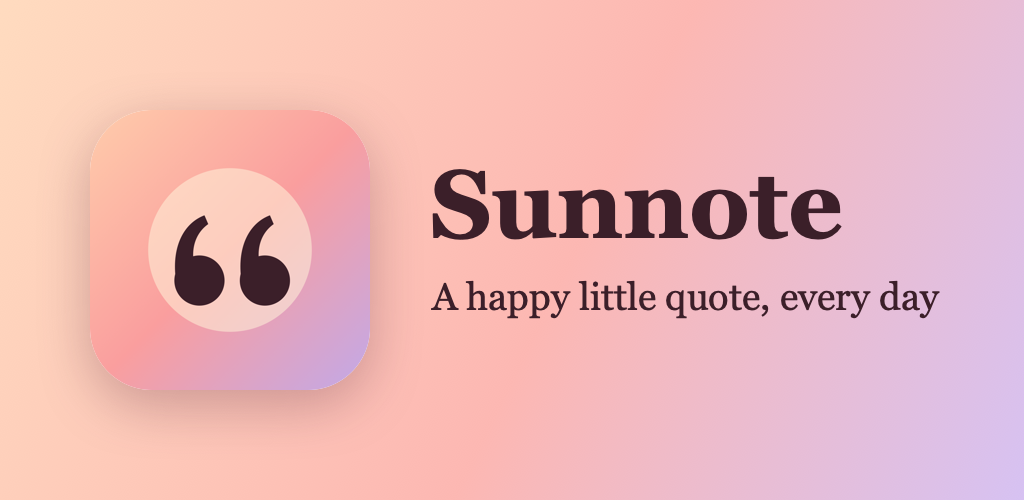
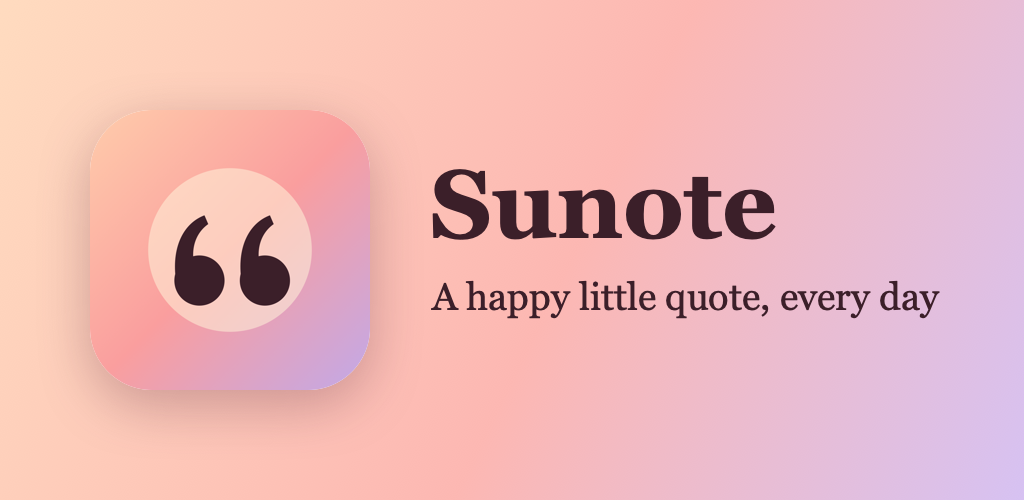
Rename the app from Sunnote to Sunote
Display names on both platforms, in-app text, README, tools and store images.
Bundle and application IDs are unchanged.

Changed region(s): [[0.5938, 0.36, 0.8438, 0.48]]

diff --git a/tools/make_store_images.swift b/tools/make_store_images.swift
@@ -1,4 +1,4 @@
-// Builds Sunnote's store images from raw simulator/emulator screenshots.
+// Builds Sunote's store images from raw simulator/emulator screenshots.
 // Usage: swift tools/make_store_images.swift <raw-screenshots-dir> <output-dir>
 // Expects in the raw dir: ios-{home,checkin,today,settings,myquotes,favourites}.png,
 // and-{home,checkin,today,settings,myquotes,favourites}.png, and the icon at
@@ -106,7 +106,7 @@ let icon = CGImageSourceCreateImageAtIndex(iconSrc, 0, nil)!
 do {
     let ctx = canvas(1024, 500)
     place(ctx, icon, in: CGRect(x: 90, y: 110, width: 280, height: 280), radius: 62)
-    let title = CTLineCreateWithAttributedString(NSAttributedString(string: "Sunnote", attributes: [
+    let title = CTLineCreateWithAttributedString(NSAttributedString(string: "Sunote", attributes: [
         .font: CTFontCreateWithName("Georgia-Bold" as CFString, 96, nil), .foregroundColor: NSColor(cgColor: ink)!]))
     ctx.textPosition = CGPoint(x: 430, y: 262); CTLineDraw(title, ctx)
     let tag = CTLineCreateWithAttributedString(NSAttributedString(string: "A happy little quote, every day", attributes: [

diff --git a/ios/QuoteApp/RootView.swift b/ios/QuoteApp/RootView.swift
@@ -151,7 +151,7 @@ struct SettingsView: View {
                 } header: {
                     Text("Widget style")
                 } footer: {
-                    Text("Pick the one that suits your wallpaper. On iOS 18 tinted or clear home screens, Sunnote follows your home screen's look automatically.")
+                    Text("Pick the one that suits your wallpaper. On iOS 18 tinted or clear home screens, Sunote follows your home screen's look automatically.")
                 }
                 Section {
                     Text("A new quote appears every day at midnight. Add the widget from your Home Screen: touch and hold, tap Edit, then Add Widget.")

diff --git a/android/app/src/main/java/io/github/nikhila612/quotewidget/ui/MainActivity.kt b/android/app/src/main/java/io/github/nikhila612/quotewidget/ui/MainActivity.kt
@@ -351,7 +351,7 @@ private fun SettingsScreen(theme: WidgetTheme, onThemeChange: (WidgetTheme) -> U
                 color = MaterialTheme.colorScheme.onSurfaceVariant,
             )
             Text(
-                "A new quote appears every day at midnight. To add the widget, touch and hold your home screen, tap Widgets, then find Sunnote.",
+                "A new quote appears every day at midnight. To add the widget, touch and hold your home screen, tap Widgets, then find Sunote.",
                 style = MaterialTheme.typography.bodySmall,
                 color = MaterialTheme.colorScheme.onSurfaceVariant,
             )

diff --git a/ios/QuoteWidget/QuoteWidget.swift b/ios/QuoteWidget/QuoteWidget.swift
@@ -140,7 +140,7 @@ struct QuoteWidget: Widget {
         StaticConfiguration(kind: kind, provider: QuoteProvider()) { entry in
             QuoteWidgetView(entry: entry)
         }
-        .configurationDisplayName("Sunnote")
+        .configurationDisplayName("Sunote")
         .description("A fresh, uplifting quote every day.")
         .supportedFamilies([.systemSmall, .systemMedium, .systemLarge])
     }

diff --git a/tools/make_icon.swift b/tools/make_icon.swift
@@ -1,4 +1,4 @@
-// Draws the Sunnote app icon (1024x1024 PNG): sunrise gradient with a pair of quote marks.
+// Draws the Sunote app icon (1024x1024 PNG): sunrise gradient with a pair of quote marks.
 // Usage: swift tools/make_icon.swift <output.png>
 import AppKit
 import CoreGraphics

diff --git a/README.md b/README.md
@@ -1,6 +1,6 @@
-# Sunnote
+# Sunote
 
-Sunnote is a home-screen widget for iOS and Android that shows one uplifting quote per day, changing at local midnight, with no repeats until the whole library has been shown.
+Sunote is a home-screen widget for iOS and Android that shows one uplifting quote per day, changing at local midnight, with no repeats until the whole library has been shown.
 
 ```
 shared/quotes.json   # the quote library, bundled into both apps
